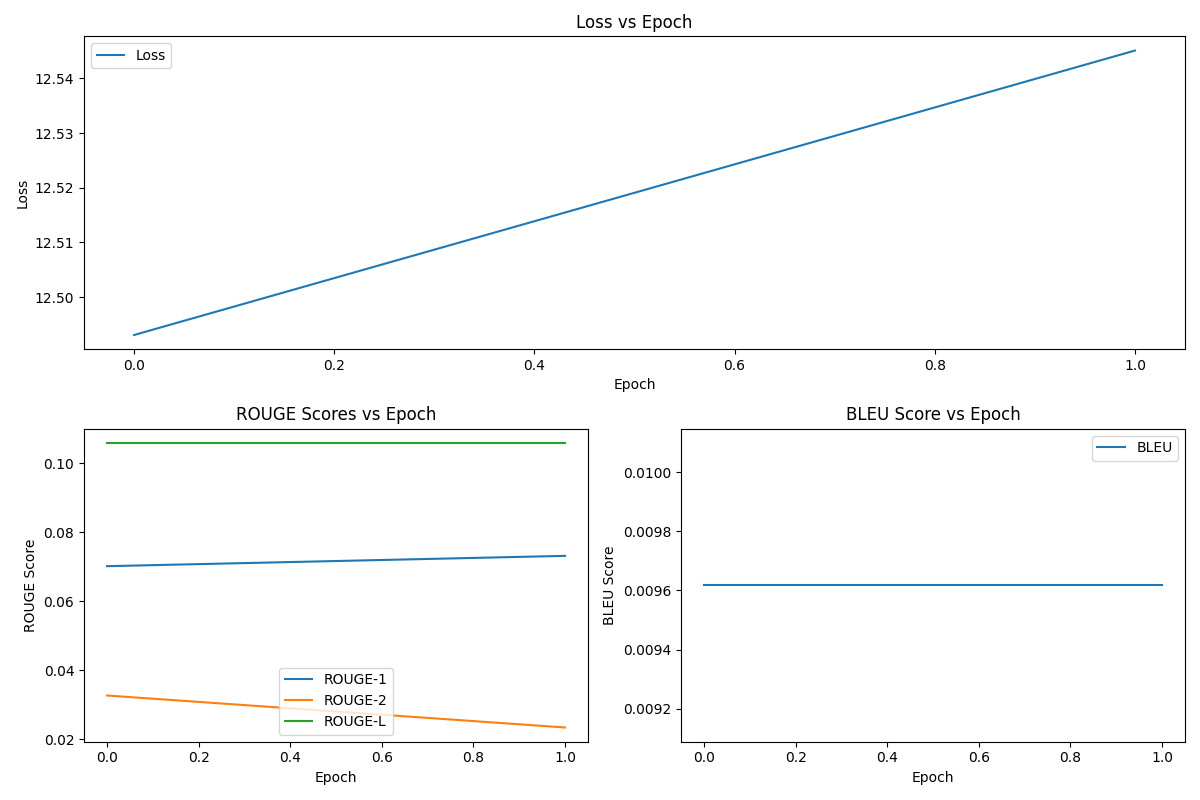
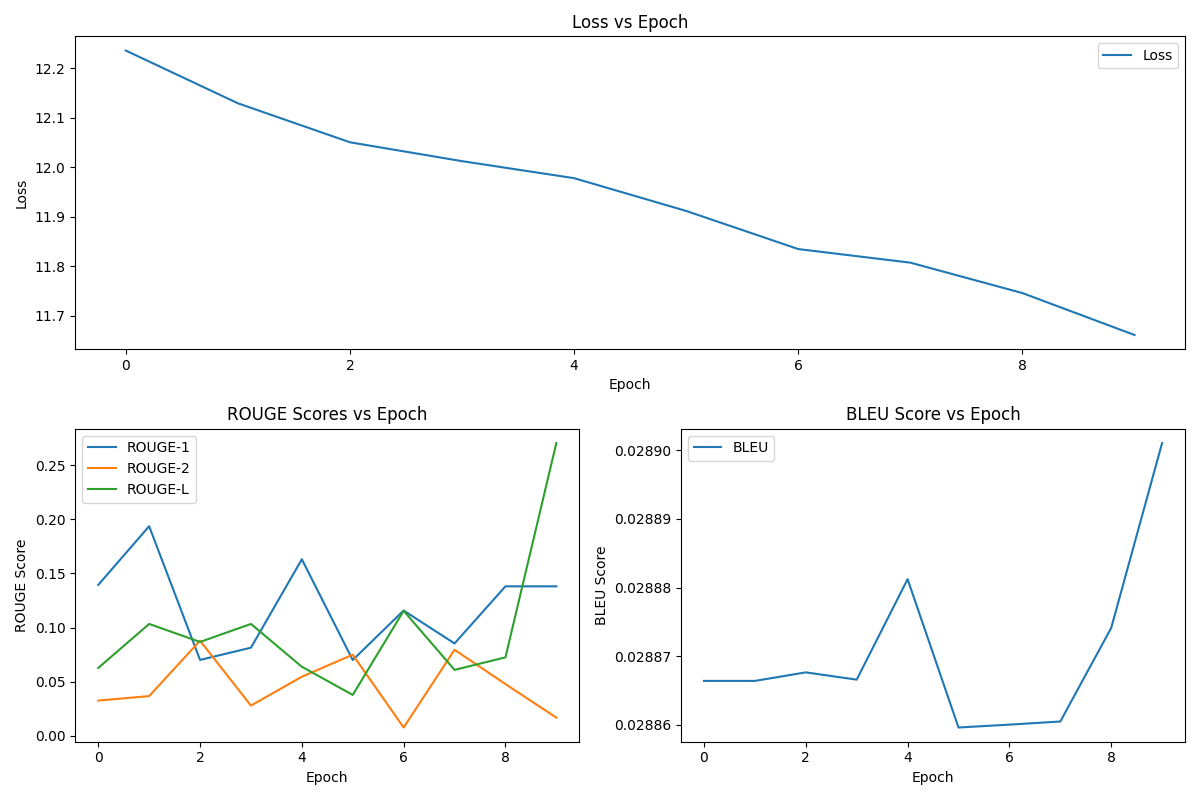
t5 experiments

diff --git a/src/t5_small/baseline_t5_small.py b/src/t5_small/baseline_t5_small.py
@@ -1,54 +1,63 @@
 import os
 import torch
-from torch.utils.data import DataLoader
-from transformers import T5ForConditionalGeneration, T5Tokenizer, AdamW
+from torch.utils.data import DataLoader, Subset
+from transformers import T5Tokenizer, T5ForConditionalGeneration, AdamW
 from datasets import load_dataset, DatasetDict
 from torch.nn.utils.rnn import pad_sequence
 from rouge_score import rouge_scorer
 from nltk.translate.bleu_score import sentence_bleu, SmoothingFunction
 import nltk
 import logging
+import matplotlib.pyplot as plt
 
 # Setup logging
 logging.basicConfig(level=logging.INFO, format='%(asctime)s - %(levelname)s - %(message)s')
 nltk.download('punkt')
 
 # Define the path to the cache directory
-cache_dir ="/Users/kabir/Downloads/LLM-PEFT-Optimization/cache"
+cache_dir = "/Users/kabir/Downloads/LLM-PEFT-Optimization/cache/"
 
 tokenizer = T5Tokenizer.from_pretrained("t5-small")
+tokenizer.pad_token = tokenizer.eos_token
 
 def collate_fn(batch):
-    input_ids = pad_sequence([item['input_ids'] for item in batch], batch_first=True, padding_value=tokenizer.pad_token_id)
-    attention_mask = pad_sequence([item['attention_mask'] for item in batch], batch_first=True, padding_value=0)
-    labels = pad_sequence([item['labels'] for item in batch], batch_first=True, padding_value=tokenizer.pad_token_id)
+    input_ids = pad_sequence([torch.tensor(item['input_ids']) for item in batch], batch_first=True, padding_value=tokenizer.pad_token_id)
+    attention_mask = pad_sequence([torch.tensor(item['attention_mask']) for item in batch], batch_first=True, padding_value=0)
+    labels = pad_sequence([torch.tensor(item['labels']) for item in batch], batch_first=True, padding_value=tokenizer.pad_token_id)
     return {'input_ids': input_ids, 'attention_mask': attention_mask, 'labels': labels}
 
-# Load and preprocess the CNN/Daily Mail dataset
-def load_and_preprocess_data(tokenizer):
+def load_and_preprocess_data(tokenizer, train_limit=None, val_limit=None):
     cache_file = os.path.join(cache_dir, "cnn_dailymail_tokenized_t5")
-
     if os.path.exists(cache_file):
         logging.info("Loading tokenized dataset from cache")
-        return DatasetDict.load_from_disk(cache_file)
+        dataset = DatasetDict.load_from_disk(cache_file)
+    else:
+        logging.info("Processing and tokenizing dataset (this may take a while)")
+        dataset = load_dataset("cnn_dailymail", '3.0.0')
+        def tokenize_function(examples):
+            inputs = [tokenizer("summarize: " + article, padding="max_length", truncation=True, max_length=512) for article in examples["article"]]
+            targets = [tokenizer(highlight, padding="max_length", truncation=True, max_length=128) for highlight in examples["highlights"]]
+            
+            # Now, we need to extract the input_ids and attention_mask for each example
+            input_ids = [input['input_ids'] for input in inputs]
+            attention_masks = [input['attention_mask'] for input in inputs]
+            labels = [target['input_ids'] for target in targets]
 
-    logging.info("Processing and tokenizing dataset (this may take a while)")
-    dataset = load_dataset("cnn_dailymail", '3.0.0')
+            return {"input_ids": input_ids, "attention_mask": attention_masks, "labels": labels}
 
-    def tokenize_function(examples):
-        inputs = tokenizer("summarize: " + examples["article"], padding="max_length", truncation=True, max_length=512)
-        targets = tokenizer(examples["highlights"], padding="max_length", truncation=True, max_length=128)
-        return {"input_ids": inputs.input_ids, "attention_mask": inputs.attention_mask, "labels": targets.input_ids}
+        dataset = dataset.map(tokenize_function, batched=True)
+        dataset.save_to_disk(cache_file)
 
-    tokenized_dataset = dataset.map(tokenize_function, batched=True)
-    tokenized_dataset.save_to_disk(cache_file)
-    return tokenized_dataset
+    if train_limit:
+        dataset['train'] = Subset(dataset['train'], range(train_limit))
+    if val_limit:
+        dataset['validation'] = Subset(dataset['validation'], range(val_limit))
 
-# Initialize T5-small model
+    return dataset
+
 def initialize_model():
     return T5ForConditionalGeneration.from_pretrained("t5-small")
 
-# Compute metrics
 def compute_metrics(predictions, references):
     scorer = rouge_scorer.RougeScorer(['rouge1', 'rouge2', 'rougeL'], use_stemmer=True)
     rouge_scores = {key: scorer.score(ref, pred)[key].fmeasure for key, pred, ref in zip(['rouge1', 'rouge2', 'rougeL'], predictions, references)}
@@ -56,46 +65,91 @@ def compute_metrics(predictions, references):
     avg_bleu_score = sum(bleu_scores) / len(bleu_scores)
     return rouge_scores, avg_bleu_score
 
+def train_and_evaluate(model, train_loader, val_loader, tokenizer, optimizer, epochs=10):
+    # Lists to keep track of metrics for plotting
+    epoch_losses = []
+    epoch_rouge1_scores = []
+    epoch_rouge2_scores = []
+    epoch_rougeL_scores = []
+    epoch_bleu_scores = []
 
-# Training function
-def train_and_evaluate(model, train_loader, val_dataset, tokenizer, optimizer, epochs=3):
     for epoch in range(epochs):
         model.train()
+        batch_losses = []
         for batch in train_loader:
             inputs, labels = batch['input_ids'], batch['labels']
             attention_mask = batch['attention_mask']
             optimizer.zero_grad()
-            outputs = model(inputs, attention_mask=attention_mask)
-            logits = outputs.logits
-            trimmed_logits = logits[:, :labels.size(1), :]
-            loss = torch.nn.CrossEntropyLoss()(trimmed_logits.view(-1, trimmed_logits.size(-1)), labels.view(-1))
+            outputs = model(input_ids=inputs, attention_mask=attention_mask, labels=labels)
+            loss = outputs.loss
             loss.backward()
             optimizer.step()
+            batch_losses.append(loss.item())
+
+        # Calculate average loss for the epoch
+        avg_loss = sum(batch_losses) / len(batch_losses)
+        epoch_losses.append(avg_loss)
 
         # Evaluation
         model.eval()
         predictions, references = [], []
-        for batch in val_dataset:
-            inputs = batch['input_ids']
-            attention_mask = batch['attention_mask']
-            labels = batch['labels']
+        for batch in val_loader:
+            inputs, attention_mask, labels = batch['input_ids'], batch['attention_mask'], batch['labels']
+
             with torch.no_grad():
-                outputs = model.generate(inputs, attention_mask=attention_mask)
-            decoded_preds = [tokenizer.decode(pred, skip_special_tokens=True) for pred in outputs]
-            decoded_labels = [tokenizer.decode(label, skip_special_tokens=True) for label in labels]
-            predictions.extend(decoded_preds)
+                generated_outputs = model.generate(inputs, attention_mask=attention_mask, max_length=512 + 50)
+                decoded_outputs = [tokenizer.decode(g, skip_special_tokens=True) for g in generated_outputs]
+                decoded_labels = [tokenizer.decode(label, skip_special_tokens=True) for label in labels]
+
+            predictions.extend(decoded_outputs)
             references.extend(decoded_labels)
 
         rouge_scores, avg_bleu_score = compute_metrics(predictions, references)
-        logging.info(f"Epoch {epoch}: ROUGE: {rouge_scores}, BLEU: {avg_bleu_score}")
+        epoch_rouge1_scores.append(rouge_scores['rouge1'])
+        epoch_rouge2_scores.append(rouge_scores['rouge2'])
+        epoch_rougeL_scores.append(rouge_scores['rougeL'])
+        epoch_bleu_scores.append(avg_bleu_score)
 
-# Main function
+        logging.info(f"Epoch {epoch}: Loss: {avg_loss}, ROUGE: {rouge_scores}, BLEU: {avg_bleu_score}")
+
+    # Plotting
+    plt.figure(figsize=(12, 8))
+    plt.subplot(2, 1, 1)
+    plt.plot(epoch_losses, label='Loss')
+    plt.xlabel('Epoch')
+    plt.ylabel('Loss')
+    plt.title('Loss vs Epoch')
+    plt.legend()
+
+    plt.subplot(2, 2, 3)
+    plt.plot(epoch_rouge1_scores, label='ROUGE-1')
+    plt.plot(epoch_rouge2_scores, label='ROUGE-2')
+    plt.plot(epoch_rougeL_scores, label='ROUGE-L')
+    plt.xlabel('Epoch')
+    plt.ylabel('ROUGE Score')
+    plt.title('ROUGE Scores vs Epoch')
+    plt.legend()
+
+    plt.subplot(2, 2, 4)
+    plt.plot(epoch_bleu_scores, label='BLEU')
+    plt.xlabel('Epoch')
+    plt.ylabel('BLEU Score')
+    plt.title('BLEU Score vs Epoch')
+    plt.legend()
+
+    plt.tight_layout()
+    plt.savefig('/Users/kabir/Downloads/LLM-PEFT-Optimization/results/t5-small/baseline_t5.png')  # Update the path to your directory
+    plt.show()
+
 def main():
-    tokenized_dataset = load_and_preprocess_data(tokenizer)
+    TRAIN_DATA_LIMIT = 20  # Adjust this to limit the amount of training data
+    VAL_DATA_LIMIT = 20   # Adjust this to limit the amount of validation data
+    tokenized_dataset = load_and_preprocess_data(tokenizer, train_limit=TRAIN_DATA_LIMIT, val_limit=VAL_DATA_LIMIT)
     model = initialize_model()
     train_loader = DataLoader(tokenized_dataset['train'], batch_size=4, shuffle=True, collate_fn=collate_fn)
+    val_loader = DataLoader(tokenized_dataset['validation'], batch_size=4, shuffle=True, collate_fn=collate_fn)
     optimizer = AdamW(model.parameters(), lr=5e-5)
-    train_and_evaluate(model, train_loader, tokenized_dataset['validation'], tokenizer, optimizer)
+    train_and_evaluate(model, train_loader, val_loader, tokenizer, optimizer)
 
 if __name__ == "__main__":
     main()

diff --git a/src/t5_small/optimized_t5_small.py b/src/t5_small/optimized_t5_small.py
@@ -1,7 +1,7 @@
 import os
 import torch
 from torch.utils.data import DataLoader, Subset
-from transformers import GPT2LMHeadModel, GPT2Tokenizer, AdamW
+from transformers import T5Tokenizer, T5ForConditionalGeneration, AdamW
 from datasets import load_dataset, DatasetDict
 from torch.nn.utils.rnn import pad_sequence
 from rouge_score import rouge_scorer
@@ -9,20 +9,19 @@ from nltk.translate.bleu_score import sentence_bleu, SmoothingFunction
 import nltk
 import logging
 import matplotlib.pyplot as plt
-from peft import LoraConfig, IA3Config, get_peft_model 
+from peft import LoraConfig, IA3Config, get_peft_model  # Import PEFT modules
 from torch.optim import AdamW  # Import from PyTorch
-
 
 # Setup logging
 logging.basicConfig(level=logging.INFO, format='%(asctime)s - %(levelname)s - %(message)s')
 nltk.download('punkt')
 
 # Define the path to the cache directory
-cache_dir = "/Users/kabir/Downloads/LLM-PEFT-Optimization/cache/"  # Update this path
+cache_dir = "/Users/kabir/Downloads/LLM-PEFT-Optimization/cache/"
 
-
-tokenizer = GPT2Tokenizer.from_pretrained("gpt2", padding_side='left')
+tokenizer = T5Tokenizer.from_pretrained("t5-small")
 tokenizer.pad_token = tokenizer.eos_token
+
 def collate_fn(batch):
     input_ids = pad_sequence([torch.tensor(item['input_ids']) for item in batch], batch_first=True, padding_value=tokenizer.pad_token_id)
     attention_mask = pad_sequence([torch.tensor(item['attention_mask']) for item in batch], batch_first=True, padding_value=0)
@@ -30,7 +29,7 @@ def collate_fn(batch):
     return {'input_ids': input_ids, 'attention_mask': attention_mask, 'labels': labels}
 
 def load_and_preprocess_data(tokenizer, train_limit=None, val_limit=None):
-    cache_file = os.path.join(cache_dir, "cnn_dailymail_tokenized")
+    cache_file = os.path.join(cache_dir, "cnn_dailymail_tokenized_t5")
     if os.path.exists(cache_file):
         logging.info("Loading tokenized dataset from cache")
         dataset = DatasetDict.load_from_disk(cache_file)
@@ -38,9 +37,16 @@ def load_and_preprocess_data(tokenizer, train_limit=None, val_limit=None):
         logging.info("Processing and tokenizing dataset (this may take a while)")
         dataset = load_dataset("cnn_dailymail", '3.0.0')
         def tokenize_function(examples):
-            inputs = tokenizer(examples["article"], padding="max_length", truncation=True, max_length=512)
-            targets = tokenizer(examples["highlights"], padding="max_length", truncation=True, max_length=512)
-            return {"input_ids": inputs.input_ids, "attention_mask": inputs.attention_mask, "labels": targets.input_ids}
+            inputs = [tokenizer("summarize: " + article, padding="max_length", truncation=True, max_length=512) for article in examples["article"]]
+            targets = [tokenizer(highlight, padding="max_length", truncation=True, max_length=128) for highlight in examples["highlights"]]
+            
+            # Now, we need to extract the input_ids and attention_mask for each example
+            input_ids = [input['input_ids'] for input in inputs]
+            attention_masks = [input['attention_mask'] for input in inputs]
+            labels = [target['input_ids'] for target in targets]
+
+            return {"input_ids": input_ids, "attention_mask": attention_masks, "labels": labels}
+
         dataset = dataset.map(tokenize_function, batched=True)
         dataset.save_to_disk(cache_file)
 
@@ -51,37 +57,26 @@ def load_and_preprocess_data(tokenizer, train_limit=None, val_limit=None):
 
     return dataset
 
+# Initialize T5 model with LoRA
 def initialize_lora_model():
-    base_model = GPT2LMHeadModel.from_pretrained("gpt2")
+    base_model = T5ForConditionalGeneration.from_pretrained("t5-small")
     lora_config = LoraConfig(
         r=8,  # LoRA rank
         lora_alpha=16,  # LoRA alpha
-        target_modules=["attn.c_attn", "attn.c_proj"],  # Target modules for LoRA
-        fan_in_fan_out=True  # Set to True for GPT-2's Conv1D layers
+        target_modules=["encoder.block.0.layer.0.SelfAttention.q", "encoder.block.0.layer.0.SelfAttention.k"]  # Target modules for LoRA
     )
     lora_model = get_peft_model(base_model, lora_config)
     return lora_model
 
-
-# Initialize GPT-2 model with IA3
+# Initialize T5 model with IA3
 def initialize_ia3_model():
-    base_model = GPT2LMHeadModel.from_pretrained("gpt2")
+    base_model = T5ForConditionalGeneration.from_pretrained("t5-small")
     ia3_config = IA3Config(
-        target_modules=["attn.c_attn", "attn.c_proj", "mlp.c_fc", "mlp.c_proj"],  # Include both attention and feedforward modules
-        feedforward_modules=["mlp.c_fc", "mlp.c_proj"]  # Feedforward modules
+        target_modules=["encoder.block.0.layer.0.SelfAttention.q", "encoder.block.0.layer.0.SelfAttention.k","encoder.block.0.layer.0.DenseReluDense.wi"],  # Target modules for IA3
+        feedforward_modules=["encoder.block.0.layer.0.DenseReluDense.wi"]  # Feedforward modules for IA3
     )
     ia3_model = get_peft_model(base_model, ia3_config)
     return ia3_model
-
-
-def get_optimizer(model):
-    base_params = [p for n, p in model.named_parameters() if not n.endswith("_peft")]
-    peft_params = [p for n, p in model.named_parameters() if n.endswith("_peft")]
-    optimizer = AdamW([
-        {'params': base_params},
-        {'params': peft_params, 'lr': 1e-4}  # Higher learning rate for PEFT parameters
-    ], lr=5e-5)
-    return optimizer
 
 def compute_metrics(predictions, references):
     scorer = rouge_scorer.RougeScorer(['rouge1', 'rouge2', 'rougeL'], use_stemmer=True)
@@ -105,10 +100,8 @@ def train_and_evaluate(mod_name,model, train_loader, val_loader, tokenizer, opti
             inputs, labels = batch['input_ids'], batch['labels']
             attention_mask = batch['attention_mask']
             optimizer.zero_grad()
-            outputs = model(inputs, attention_mask=attention_mask)
-            logits = outputs.logits
-            trimmed_logits = logits[:, :labels.size(1), :]
-            loss = torch.nn.CrossEntropyLoss()(trimmed_logits.view(-1, trimmed_logits.size(-1)), labels.view(-1))
+            outputs = model(input_ids=inputs, attention_mask=attention_mask, labels=labels)
+            loss = outputs.loss
             loss.backward()
             optimizer.step()
             batch_losses.append(loss.item())
@@ -139,9 +132,8 @@ def train_and_evaluate(mod_name,model, train_loader, val_loader, tokenizer, opti
 
         logging.info(f"Epoch {epoch}: Loss: {avg_loss}, ROUGE: {rouge_scores}, BLEU: {avg_bleu_score}")
 
-    # Plotting
+    #Plotting
     plt.figure(figsize=(12, 8))
-    plt.title(mod_name)
     plt.subplot(2, 1, 1)
     plt.plot(epoch_losses, label='Loss')
     plt.xlabel('Epoch')
@@ -166,7 +158,7 @@ def train_and_evaluate(mod_name,model, train_loader, val_loader, tokenizer, opti
     plt.legend()
 
     plt.tight_layout()
-    img_path='/Users/kabir/Downloads/LLM-PEFT-Optimization/results/gpt2/optimised_gpt2_'+mod_name+'.png'
+    img_path='/Users/kabir/Downloads/LLM-PEFT-Optimization/results/t5-small/optimized_t5'+mod_name+'.png'
     plt.savefig(img_path)  # Update the path to your directory
     plt.show()
 
@@ -179,17 +171,14 @@ def main():
 
     # Train and evaluate LoRA model
     lora_model = initialize_lora_model()
-    lora_optimizer = get_optimizer(lora_model)
-    lora_model_name="lora"
-    train_and_evaluate(lora_model_name,lora_model, train_loader, val_loader, tokenizer, lora_optimizer)
+    lora_optimizer = AdamW(lora_model.parameters(), lr=5e-5)
+    model_name_lora="lora"
+    train_and_evaluate(model_name_lora,lora_model, train_loader, val_loader, tokenizer, lora_optimizer)
 
     # Train and evaluate IA3 model
     ia3_model = initialize_ia3_model()
-    ia3_optimizer = get_optimizer(ia3_model)
-    ia3_model_name="ia3"
-    train_and_evaluate(ia3_model_name,ia3_model, train_loader, val_loader, tokenizer, ia3_optimizer)
-
-
-
+    ia3_optimizer = AdamW(ia3_model.parameters(), lr=5e-5)
+    model_name_ia3="ia3"
+    train_and_evaluate(model_name_ia3,ia3_model, train_loader, val_loader, tokenizer, ia3_optimizer)
 if __name__ == "__main__":
     main()
